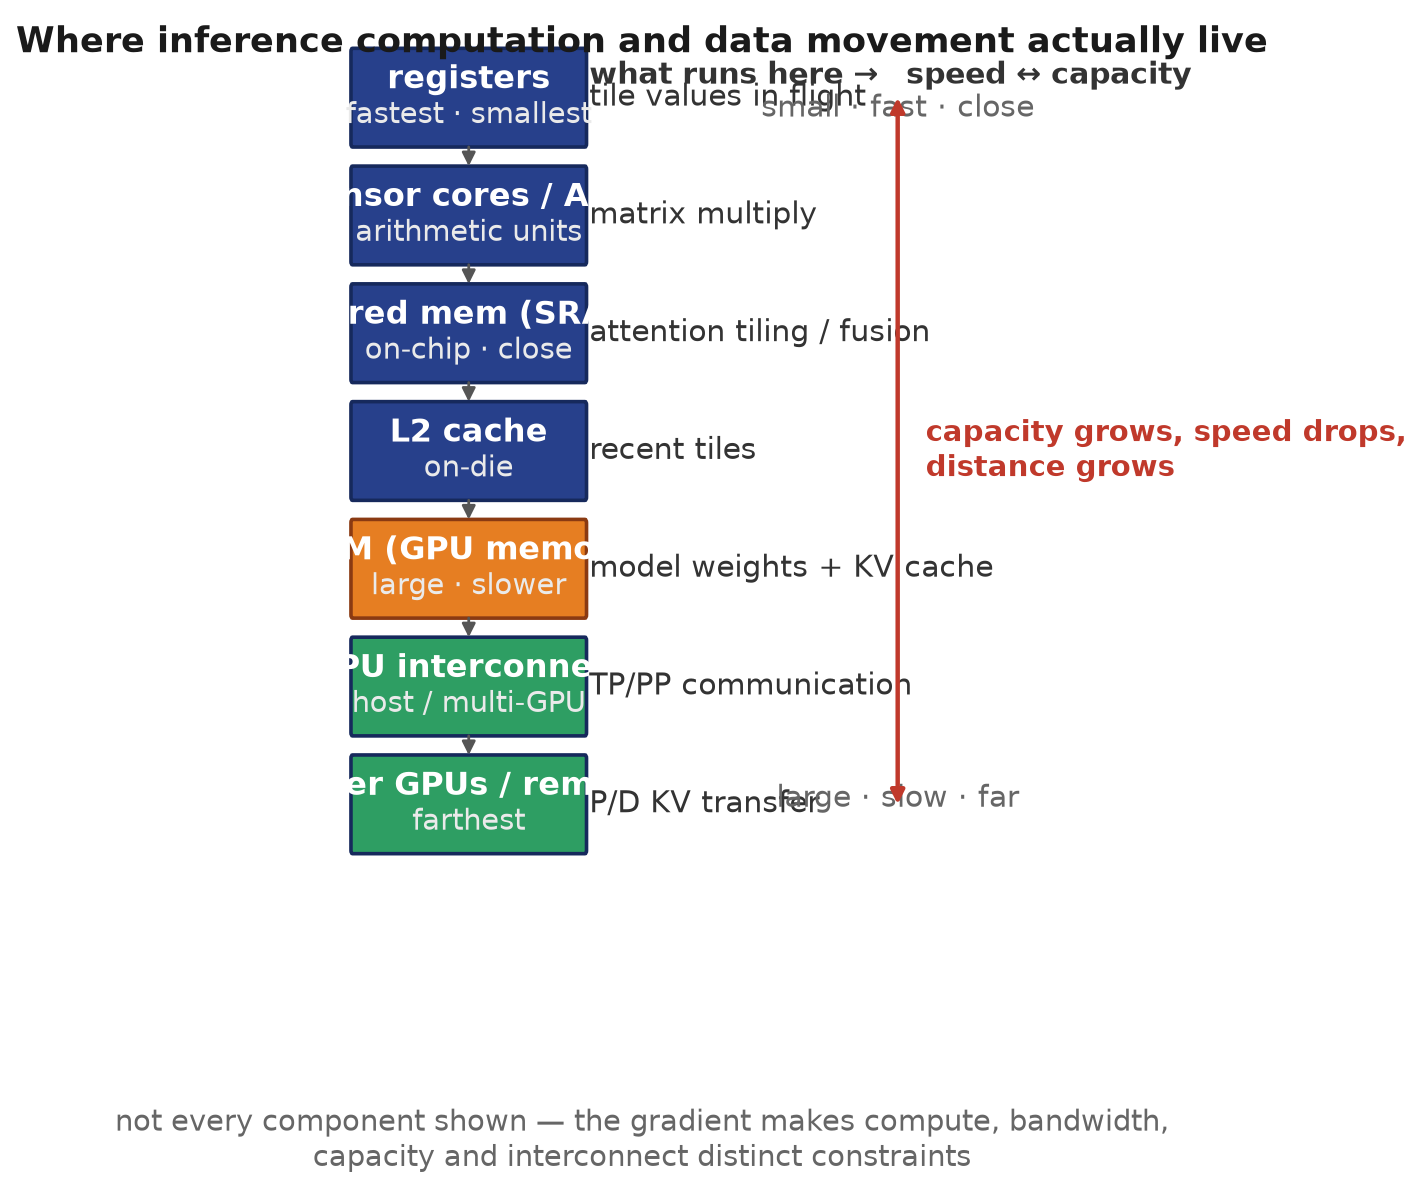
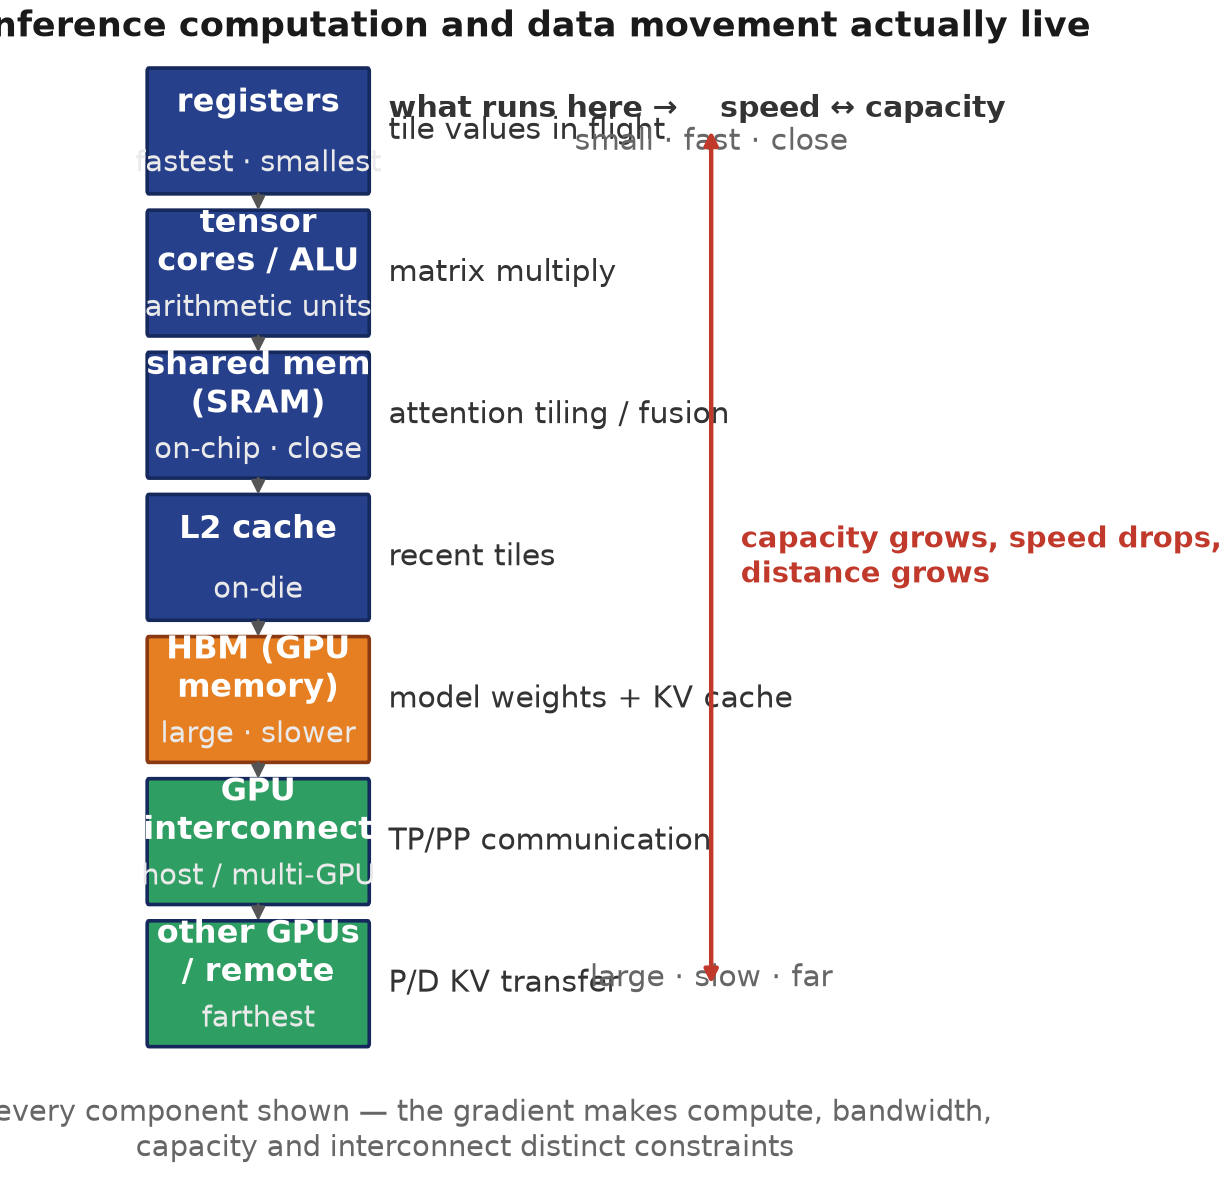
PASS-17: fix Fig 8.1 clipped ladder labels (widen boxes, two-line names, layout)

Changed region(s): [[0.0, 0.0, 1.0, 1.0], [0.6852, 0.6407, 0.7164, 0.6712], [0.6541, 0.8237, 0.6852, 0.8542]]

diff --git a/render/fig_ch8_hierarchy.py b/render/fig_ch8_hierarchy.py
@@ -15,7 +15,6 @@ import matplotlib
 matplotlib.use('Agg')
 import matplotlib.pyplot as plt
 from matplotlib.patches import FancyBboxPatch
-from matplotlib.textpath import TextPath
 from matplotlib.font_manager import FontProperties
 
 BOLD = FontProperties(weight='bold')
@@ -24,8 +23,16 @@ W = 6.1 * 72
 Ht = 5.9 * 72
 PADX = 0.28
 
-def tw(s, fs=FS):
-    return TextPath((0, 0), s, size=fs, prop=BOLD).get_extents().width
+def rw(s, fs=FS):
+    """Width of a rendered bold string in points (uses the actual renderer, not the
+    TextPath heuristic, which under-estimates the drawn DejaVu bold width ~40% and
+    lets labels clip at the box edge)."""
+    fig, ax = plt.subplots()
+    fig.canvas.draw()
+    t = ax.text(0, 0, s, fontsize=fs, fontweight='bold')
+    w = t.get_window_extent(fig.canvas.get_renderer()).width
+    plt.close(fig)
+    return w
 
 fig, ax = plt.subplots(figsize=(6.1, 5.9))
 ax.set_xlim(0, W); ax.set_ylim(0, Ht); ax.axis('off')
@@ -35,32 +42,38 @@ C_ONCHIP='#27408b'; C_MEM='#e67e22'; C_NET='#2e9e63'; C_TEN='#c0392b'
 def label(cx, cy, text, color='#444', fs=FS-0.4, ha='center', weight='normal', style='normal'):
     ax.text(cx, cy, text, ha=ha, va='center', fontsize=fs, color=color, fontweight=weight, style=style)
 
-label(W/2, Ht-10, 'Where inference computation and data movement actually live',
+label(W/2, Ht-7, 'Where inference computation and data movement actually live',
       '#1a1a1a', FS+1.0, weight='bold')
 
 # column boundaries
-colA_cx = 96      # hierarchy ladder
-colB_x  = 182     # what-runs-here (left-aligned)
-colC_x  = 388     # gradient
+colA_cx = 80      # hierarchy ladder
+colB_x  = 168     # what-runs-here (left-aligned)
+colC_x  = 372     # gradient
 
 levels = [
     ('registers', 'fastest · smallest', C_ONCHIP),
-    ('tensor cores / ALU', 'arithmetic units', C_ONCHIP),
-    ('shared mem (SRAM)', 'on-chip · close', C_ONCHIP),
+    ('tensor\ncores / ALU', 'arithmetic units', C_ONCHIP),
+    ('shared mem\n(SRAM)', 'on-chip · close', C_ONCHIP),
     ('L2 cache', 'on-die', C_ONCHIP),
-    ('HBM (GPU memory)', 'large · slower', C_MEM),
-    ('GPU interconnect', 'host / multi-GPU', C_NET),
-    ('other GPUs / remote', 'farthest', C_NET),
+    ('HBM (GPU\nmemory)', 'large · slower', C_MEM),
+    ('GPU\ninterconnect', 'host / multi-GPU', C_NET),
+    ('other GPUs\n/ remote', 'farthest', C_NET),
 ]
-ladder_w = 168; h = 36; gap = 7
-top = Ht-30
+ladder_w = 150; h = 46; gap = 6
+top = Ht-45
 ys=[]; y=top
 for name, role, c in levels:
     ax.add_patch(FancyBboxPatch((colA_cx-ladder_w/2, y-h/2), ladder_w, h,
                   boxstyle='round,pad=0.02,rounding_size=1.2', fc=c,
                   ec='#16295c' if c in (C_ONCHIP,C_NET) else '#8a3a12', lw=1.3, clip_on=False))
-    label(colA_cx, y+h*0.18, name, '#ffffff', FS, weight='bold')
-    label(colA_cx, y-h*0.18, role, '#eaeaea', FS-0.9)
+    nl = name.count('\n') + 1      # 1 or 2 name lines
+    if nl == 2:
+        # two-line name centered in upper 60% of box; role in lower part
+        label(colA_cx, y+h*0.24, name, '#ffffff', FS, weight='bold', style='normal')
+        label(colA_cx, y-h*0.28, role, '#eaeaea', FS-0.9)
+    else:
+        label(colA_cx, y+h*0.22, name, '#ffffff', FS, weight='bold')
+        label(colA_cx, y-h*0.26, role, '#eaeaea', FS-0.9)
     ys.append((y,c)); y -= (h+gap)
 for i in range(len(ys)-1):
     ax.annotate('', xy=(colA_cx, ys[i+1][0]+h/2), xytext=(colA_cx, ys[i][0]-h/2),
